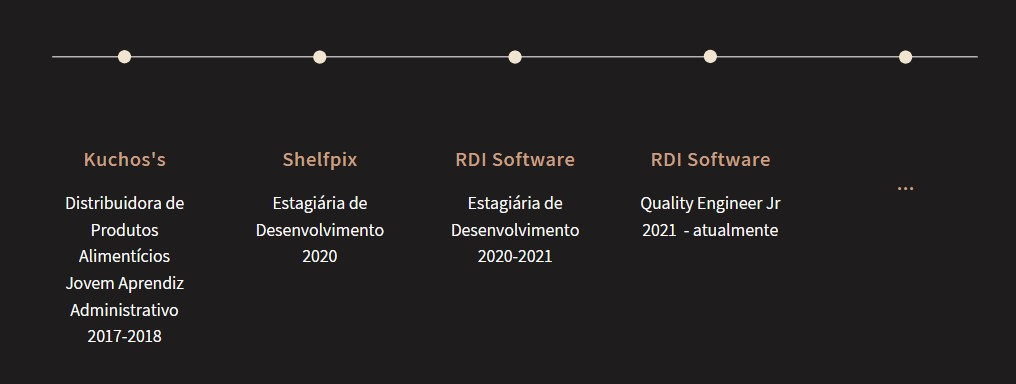
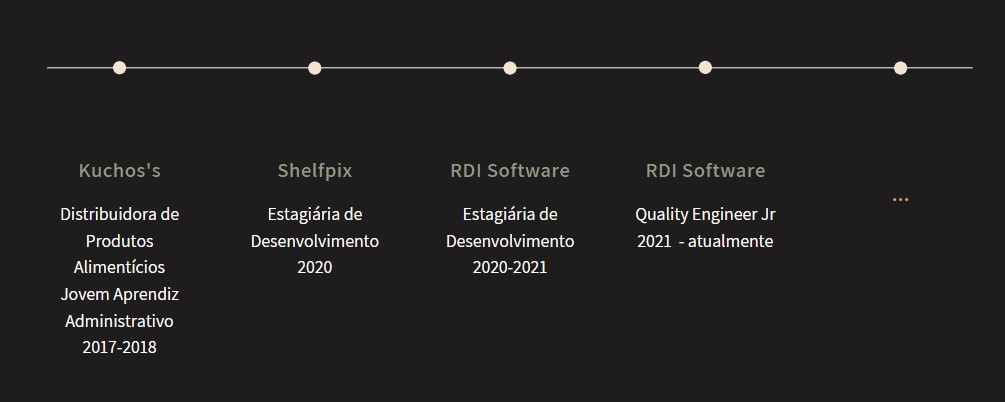
New Adjustments

diff --git a/CSS/main.css b/CSS/main.css
@@ -4,9 +4,13 @@ body{
 }
 
 .topnav {
-  background-color: #CBA087;
+  background-color: #939888;
   overflow: hidden;
-  
+  /* position: fixed;
+  right: 0;
+  top: 50%;
+  width: 8em;
+  margin-top: -2.5em; */
 }
 
 /* Style the links inside the navigation bar */
@@ -22,12 +26,12 @@ body{
 }
 
 .topnav a:hover {
-  background-color: #aa7759;
+  background-color: #696d5f;
   color: black;
 }
 
 .topnav a.active {
-  background-color: #aa7759;
+  background-color: #696d5f;
   color: white;
 }
 
@@ -35,7 +39,7 @@ body{
   display: none;
 }
 
-@media screen and (max-width: 600px) {
+/* @media screen and (max-width: 600px) {
   .topnav a:not(:first-child) {display: none;}
   .topnav a.icon {
     float: right;
@@ -55,40 +59,40 @@ body{
     display: block;
     text-align: left;
   }
-}
+} */
 
 .titleHome{
     font-family: mahalika;
-    font-size: 90px;
+    font-size: 80px;
+    text-align: center;
 }
 
 .subtitleHome{
     font-family: mahalika;
     font-size: 60px;
-
+    padding: 0px;
+    text-align: center;
 }
 
 .textHome{
     font-family: assistant-regular;
-    font-size: 30px;
-    margin-top: 1px;
-    
+    font-size: 22px;
+    text-align: center;
 }
 
 .imgHome{
-    width: 305px;
-    height: 391px;
+    width: 405px;
     border-radius: 10px;
     position: absolute;
-    top: 150px;
-    left: 250px;
+    top: 80px;
+    left: 180px;
 }
 
 .divHome{
     position: absolute;
     height: 680px;
     width: 100%;
-    background-color: #CBA087;
+    background-color: #939888;
 }
 
 .divImg{
@@ -100,7 +104,7 @@ body{
     width: 50%;
     float: right;
     position: absolute;
-    top: 150px;
+    top: 40px;
     right: 20px;
 }
 
@@ -123,26 +127,32 @@ body{
   .titleAbout{
     font-family: mahalika;
     font-size: 60px;
-    color: #CBA087;
+    color: #939888;
     padding: 0;
+    text-align: center;
   }
 
   .subtitleAbout{
     font-family: mahalika;
     font-size: 30px;
     color: #FFFFFF;
+    text-align: center;
   }
 
   .titleTextAbout{
     font-family: mahalika;
-    font-size: 20px;
-    color: #CBA087;
+    font-size: 22px;
+    color: #939888;
+    text-align: left;
   }
   
   .textAbout{
     font-family: mahalika;
-    font-size: 15px;
+    font-size: 20px;
     color: #FFFFFF;
+    text-align: justify;
+    width: 450px;
+
   }
 
 
@@ -165,7 +175,7 @@ body{
     width: 100%;
     top: 1425px;
     position: absolute;
-    background-color: #CBA087;
+    background-color: #939888;
   }
 
   .tituloCE{
@@ -189,7 +199,7 @@ body{
 
   .imgCE{
     width: 65%;
-    margin-top: 80px;
+    margin-top: 30px;
     position: absolute;
     left: 200px;
   }
@@ -225,7 +235,7 @@ body{
 
   .imgCP {
     width: 65%;
-    margin-top: 80px;
+    margin-top: 20px;
     position: absolute;
     left: 200px;
   }
@@ -236,7 +246,7 @@ body{
     width: 100%;
     top: 2790px;
     position: absolute;
-    background-color: #CBA087;
+    background-color: #939888;
   }
 
   .divContato{
@@ -252,7 +262,7 @@ body{
     font-size: 80px;
     color: #FFFFFF;
     padding: 0;
-    margin-left: 250px;
+    margin-left: 270px;
     margin-top: 130px;
   }
 
@@ -284,7 +294,7 @@ body{
   }
 
   .textContact{
-    color: #aa7759;
+    color: #696d5f;
     font-size: 20px;
     font-family: mahalika;
     text-align: center;

diff --git a/index.html b/index.html
@@ -16,9 +16,6 @@
             <a href="#formacao">Formação</a>
             <a href="#sobre">Sobre</a>
             <a href="#inicio" class="active">Inicio</a>
-            <a href="javascript:void(0);" class="icon" onclick="myFunction()">
-              <i class="fa fa-bars"></i>
-            </a>
           </div>
     </nav>
     
@@ -44,17 +41,15 @@
             <p class="subtitleAbout">Adrianne Oliveira, Quality Engineer</p>
             <div>
                 <p class="titleTextAbout">Perfil Pessoal</p>
-                <pre class="textAbout">
-                    Sou de São Paulo, atualmente tenho 
+                <p class="textAbout" >Sou de São Paulo, atualmente tenho 
                     20 anos e ja sou graduada em Ciência
                     da Computação. Atualmente curso Pós 
                     Graduação em Qualidade de Software 
-                    pelo SENAC.
-                </pre>
+                    pelo SENAC.</p>
             </div>
             <div>
                 <p class="titleTextAbout">Perfil Profissional</p>
-                <pre class="textAbout">
+                <p class="textAbout" >
                     Quality Engineer JR na empresa RDI 
                     Software, responsável pelo software 
                     da maior rede de fast food do mundo 
@@ -63,7 +58,8 @@
                     além de ter sido jovem aprendiz de
                     administração e financeiro quando 
                     mais jovem.
-                </pre>
+                </p>
+                
             </div>
                         
         </div>
